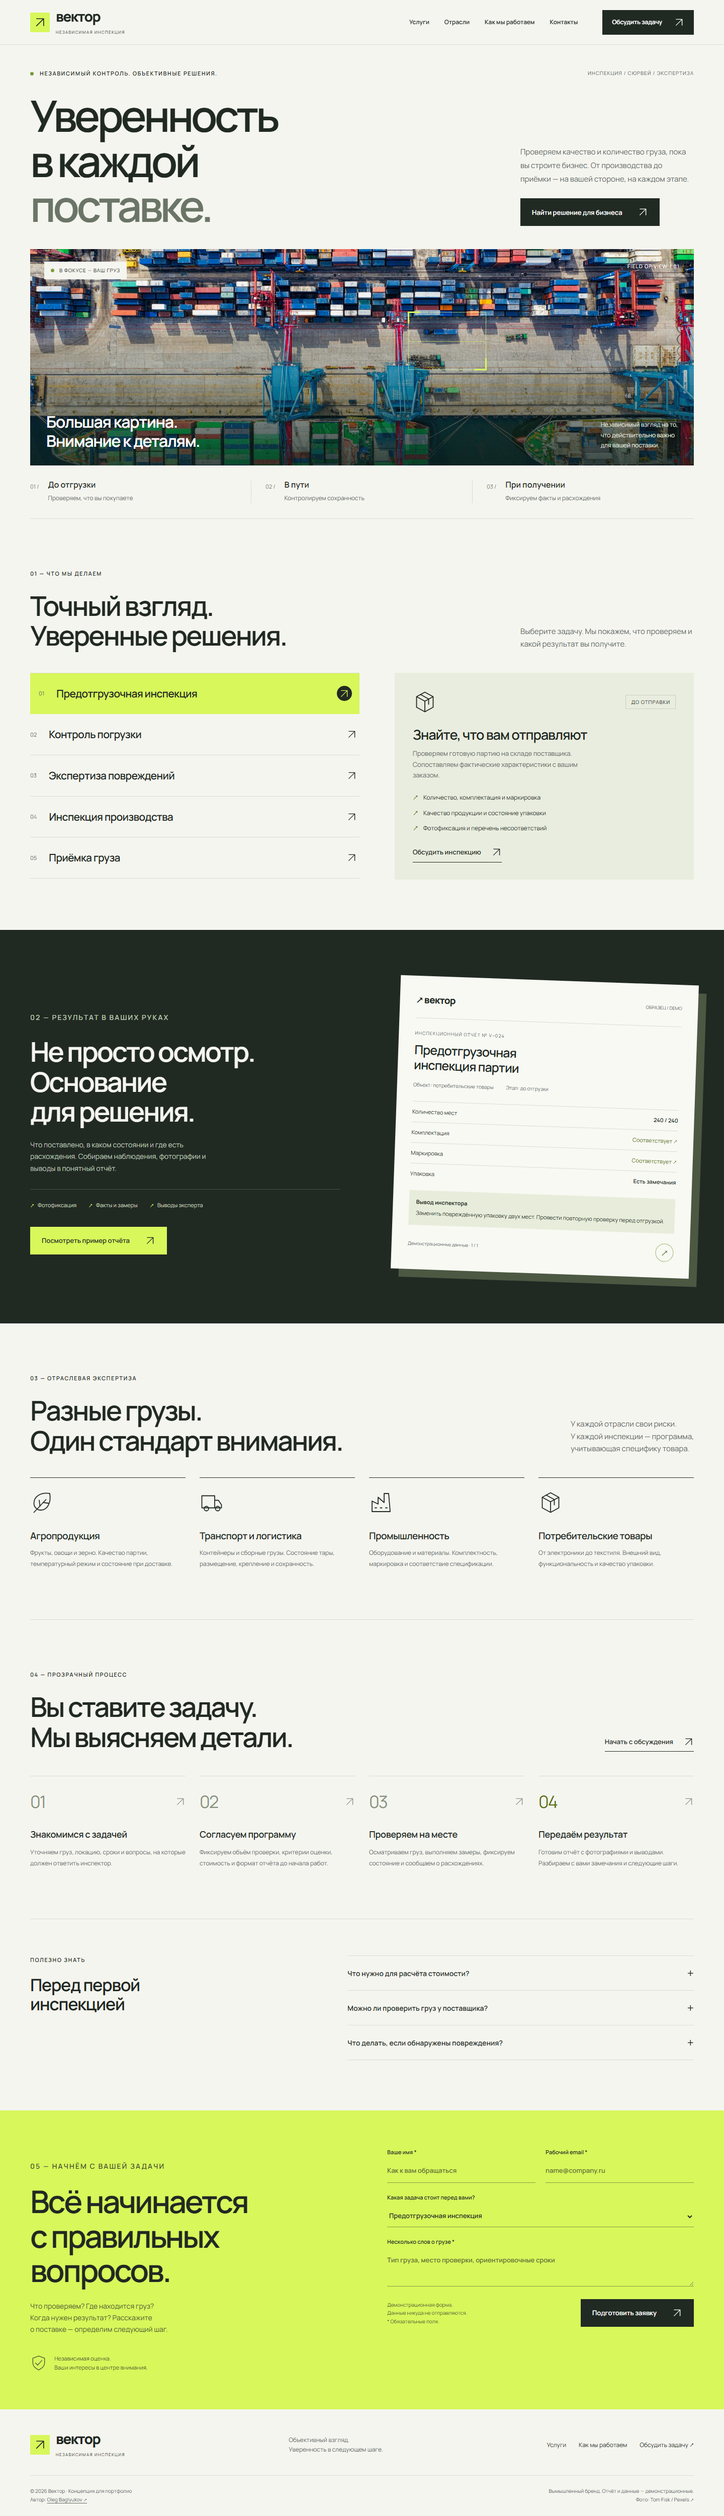
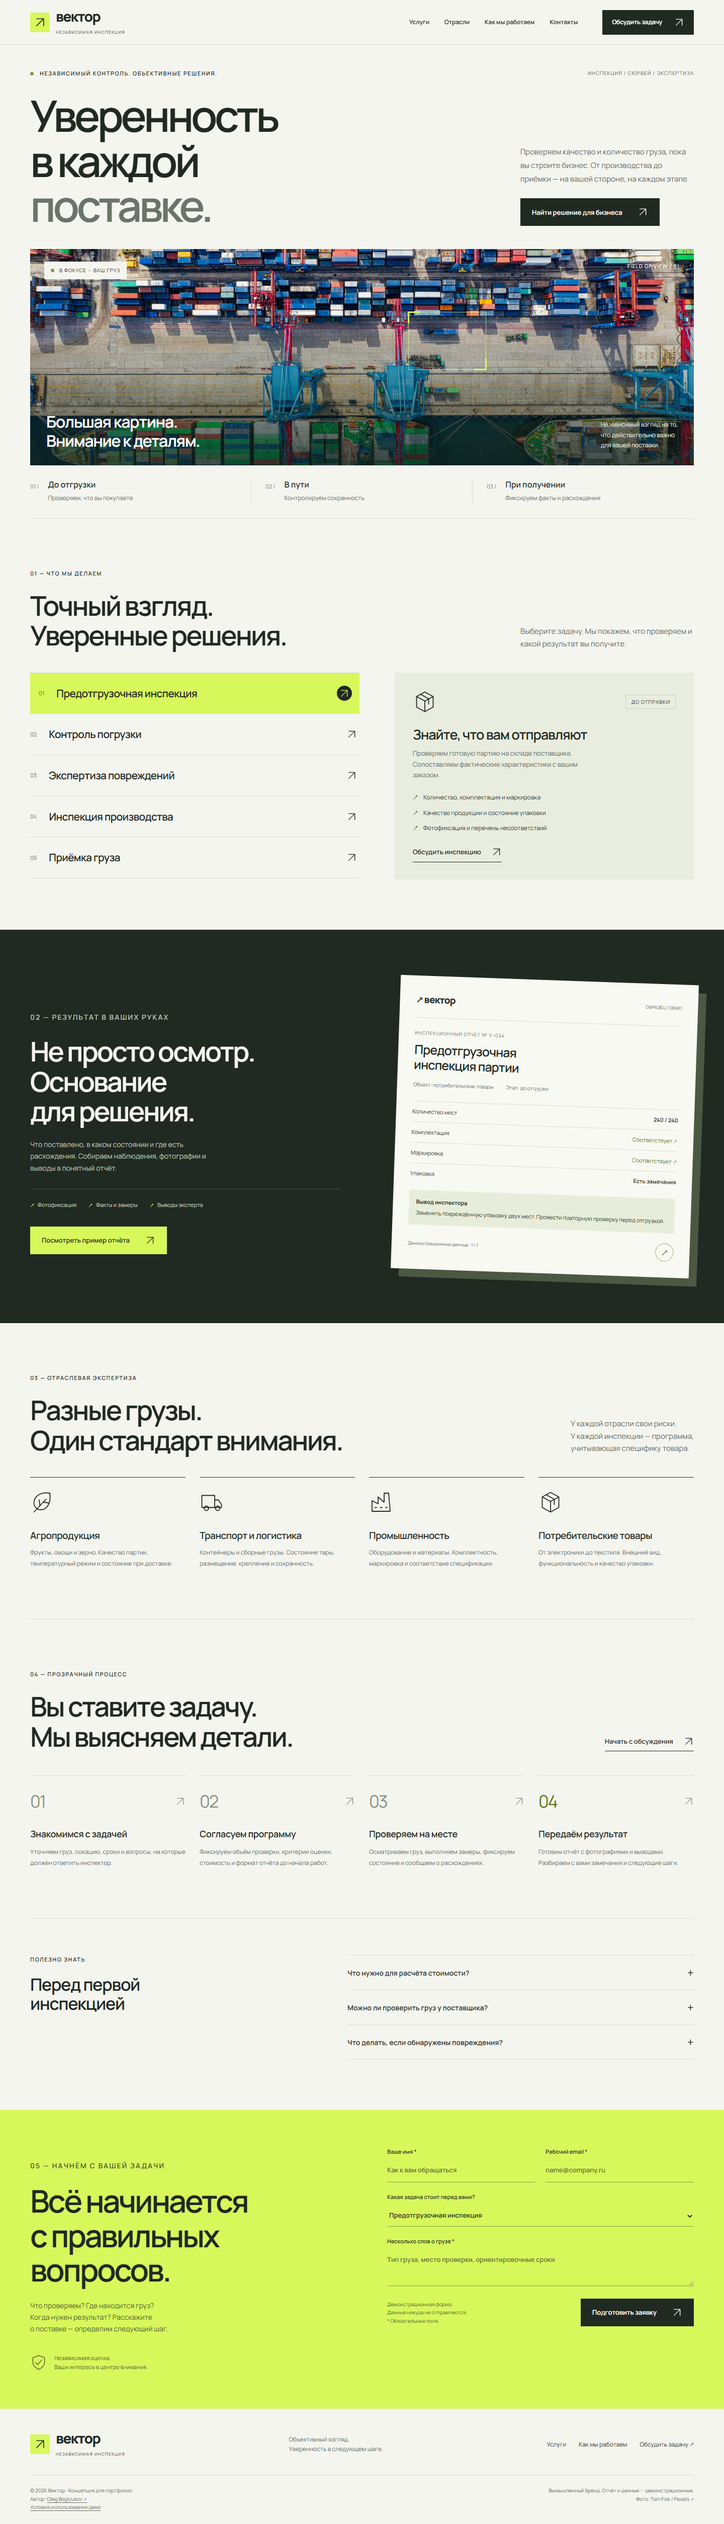
Add portfolio demo usage terms and attribution notices

diff --git a/terms.html b/terms.html
@@ -1,0 +1,23 @@
+<!doctype html>
+<html lang="ru">
+<head>
+<meta charset="utf-8">
+<meta name="viewport" content="width=device-width, initial-scale=1">
+<title>Условия использования — Вектор</title>
+<meta name="description" content="Условия просмотра и использования демонстрационного проекта Вектор автора Oleg Baglyukov.">
+<style>
+@font-face{font-family:Demo;src:url(assets/manrope-variable.ttf) format("truetype");font-weight:100 900;font-display:swap}*{box-sizing:border-box}body{margin:0;background:#f5f5ed;color:#20291c;font-family:Demo,system-ui,sans-serif;line-height:1.8}main{max-width:840px;margin:auto;padding:48px 24px 64px}a{color:#42582e;text-underline-offset:4px;overflow-wrap:anywhere}a:focus-visible{outline:2px solid currentColor;outline-offset:5px}header{margin:36px 0}h1{font-size:clamp(30px,5vw,48px);line-height:1.2;letter-spacing:-.035em;margin:0 0 20px}h2{font-size:21px;line-height:1.4;margin:0 0 12px}p{margin:0;overflow-wrap:anywhere}section{margin:30px 0}header p,footer{color:#56604e;font-size:14px}footer{margin-top:40px;padding-top:24px;border-top:1px solid currentColor}@media(max-width:480px){main{padding:28px 20px 40px}h2{font-size:19px}}
+</style>
+</head>
+<body><main>
+<a href="./">← Вернуться к демо «Вектор»</a>
+<header><h1>Условия использования</h1><p>Демонстрационный проект «Вектор» · Редакция от 13 ноября 2026 года</p></header>
+<section><h2>Назначение демо</h2><p>Проект «Вектор» опубликован Oleg Baglyukov для демонстрации дизайна и интерфейса в портфолио. Он предоставляется для просмотра и оценки. Публикация файлов в открытом доступе сама по себе не предоставляет лицензию на использование проекта в других продуктах.</p></section>
+<section><h2>Что разрешено</h2><p>Разрешены просмотр сайта, проверка его интерфейса, изучение кода и отправка ссылки на демо. Файлы, создаваемые кнопками демонстрационного интерфейса, можно скачивать для локальной проверки. Просмотр и форки публичного репозитория на GitHub допускаются в объёме, предусмотренном условиями GitHub; это не означает разрешения на самостоятельную публикацию, продажу или использование проекта в клиентской работе.</p></section>
+<section><h2>Использование в других проектах</h2><p>Если иное не разрешено применимым законом, условиями GitHub или лицензией конкретного стороннего материала, без предварительного письменного разрешения Oleg Baglyukov не разрешаются: копирование и переработка охраняемых материалов для другого сайта или продукта; публикация копий и переработок, включая размещение на другом домене; продажа, распространение в составе шаблонов и передача для использования в клиентских проектах. Нельзя выдавать чужие материалы за собственную работу. Указание автора само по себе не заменяет разрешения.</p></section>
+<section><h2>Объём прав и сторонние материалы</h2><p>© 2026 Oleg Baglyukov. Все права на охраняемые авторские материалы сохранены в пределах, установленных применимым законодательством. Настоящие условия не устанавливают исключительных прав на общие идеи, методы, стандартные приёмы интерфейса и элементы, не охраняемые авторским правом. Они не ограничивают использование, разрешённое законом. Сторонние материалы принадлежат соответствующим правообладателям и используются по их собственным лицензиям. Фотография порта: Tom Fisk / Pexels. На неё распространяется лицензия Pexels (<a href="https://www.pexels.com/license/">pexels.com/license/</a>), а не ограничения на авторские материалы этого проекта. Шрифт Manrope распространяется по SIL Open Font License 1.1; текст лицензии находится в <a href="assets/OFL-Manrope.txt">assets/OFL-Manrope.txt</a>. Условия этого проекта не изменяют и не сужают права по этим сторонним лицензиям.</p></section>
+<section><h2>Отдельное разрешение</h2><p>Для использования проекта или его охраняемых частей в коммерческой или иной работе необходимо отдельное письменное соглашение, определяющее объём разрешённого использования, за исключением случаев, указанных выше. Просмотр демо, переговоры, получение ссылки и наличие копии файлов не означают передачу исключительных прав. Контакт автора: <a href="https://github.com/zerg41">github.com/zerg41</a>.</p></section>
+<section><h2>Демонстрационный характер</h2><p>Бренды и данные в интерфейсе используются для демонстрации. Демо не является действующим сервисом и не предназначено для реальных заявок, платежей или производственной эксплуатации. Формы не отправляют введённые данные.</p></section>
+<footer>© 2026 Oleg Baglyukov · <a href="LICENSE.md">Текст условий для репозитория</a></footer>
+</main></body>
+</html>

diff --git a/index.html b/index.html
@@ -239,7 +239,7 @@
 </main>
 <footer class="footer wrap">
   <div class="footer-top"><a class="brand" href="#main"><span class="brand-mark"><svg class="arrow" aria-hidden="true"><use href="#arrow"/></svg></span><span><span class="brand-name">вектор</span><span class="brand-sub" style="display:block">независимая инспекция</span></span></a><p>Объективный взгляд.<br>Уверенность в следующем шаге.</p><div class="footer-links"><a href="#services">Услуги</a><a href="#process">Как мы работаем</a><a href="#contact">Обсудить задачу ↗</a></div></div>
-  <div class="footer-bottom"><p>© 2026 Вектор · Концепция для портфолио<br>Автор: <a class="author-link" href="https://github.com/zerg41" target="_blank" rel="noopener noreferrer">Oleg Baglyukov ↗</a></p><p>Вымышленный бренд. Отчёт и данные — демонстрационные.<br>Фото: <a href="https://www.pexels.com/photo/aerial-photography-of-container-van-lot-2226458/" target="_blank" rel="noopener noreferrer">Tom Fisk / Pexels ↗</a></p></div>
+  <div class="footer-bottom"><p>© 2026 Вектор · Концепция для портфолио<br>Автор: <a class="author-link" href="https://github.com/zerg41" target="_blank" rel="noopener noreferrer">Oleg Baglyukov ↗</a><br><a class="author-link" href="terms.html">Условия использования демо</a></p><p>Вымышленный бренд. Отчёт и данные — демонстрационные.<br>Фото: <a href="https://www.pexels.com/photo/aerial-photography-of-container-van-lot-2226458/" target="_blank" rel="noopener noreferrer">Tom Fisk / Pexels ↗</a></p></div>
 </footer>
 <dialog id="report-dialog" aria-labelledby="dialog-title">
   <div class="dialog-top"><span class="eyebrow">Вектор / Образец отчёта</span><button class="close-dialog" type="button" id="close-report" aria-label="Закрыть отчёт">×</button></div>

diff --git a/LICENSE.md b/LICENSE.md
@@ -1,0 +1,29 @@
+# Условия использования — Вектор
+
+Copyright © 2026 Oleg Baglyukov. All rights reserved, subject to the exceptions below.
+
+Редакция от 13 ноября 2026 года.
+
+## Назначение демо
+
+Проект «Вектор» опубликован Oleg Baglyukov для демонстрации дизайна и интерфейса в портфолио. Он предоставляется для просмотра и оценки. Публикация файлов в открытом доступе сама по себе не предоставляет лицензию на использование проекта в других продуктах.
+
+## Что разрешено
+
+Разрешены просмотр сайта, проверка его интерфейса, изучение кода и отправка ссылки на демо. Файлы, создаваемые кнопками демонстрационного интерфейса, можно скачивать для локальной проверки. Просмотр и форки публичного репозитория на GitHub допускаются в объёме, предусмотренном условиями GitHub; это не означает разрешения на самостоятельную публикацию, продажу или использование проекта в клиентской работе.
+
+## Использование в других проектах
+
+Если иное не разрешено применимым законом, условиями GitHub или лицензией конкретного стороннего материала, без предварительного письменного разрешения Oleg Baglyukov не разрешаются: копирование и переработка охраняемых материалов для другого сайта или продукта; публикация копий и переработок, включая размещение на другом домене; продажа, распространение в составе шаблонов и передача для использования в клиентских проектах. Нельзя выдавать чужие материалы за собственную работу. Указание автора само по себе не заменяет разрешения.
+
+## Объём прав и сторонние материалы
+
+© 2026 Oleg Baglyukov. Все права на охраняемые авторские материалы сохранены в пределах, установленных применимым законодательством. Настоящие условия не устанавливают исключительных прав на общие идеи, методы, стандартные приёмы интерфейса и элементы, не охраняемые авторским правом. Они не ограничивают использование, разрешённое законом. Сторонние материалы принадлежат соответствующим правообладателям и используются по их собственным лицензиям. Фотография порта: Tom Fisk / Pexels. На неё распространяется лицензия Pexels (https://www.pexels.com/license/), а не ограничения на авторские материалы этого проекта. Шрифт Manrope распространяется по SIL Open Font License 1.1; текст лицензии находится в assets/OFL-Manrope.txt. Условия этого проекта не изменяют и не сужают права по этим сторонним лицензиям.
+
+## Отдельное разрешение
+
+Для использования проекта или его охраняемых частей в коммерческой или иной работе необходимо отдельное письменное соглашение, определяющее объём разрешённого использования, за исключением случаев, указанных выше. Просмотр демо, переговоры, получение ссылки и наличие копии файлов не означают передачу исключительных прав. Контакт автора: https://github.com/zerg41.
+
+## Демонстрационный характер
+
+Бренды и данные в интерфейсе используются для демонстрации. Демо не является действующим сервисом и не предназначено для реальных заявок, платежей или производственной эксплуатации. Формы не отправляют введённые данные.

diff --git a/README.md b/README.md
@@ -1,7 +1,13 @@
 # Вектор — концепция сайта инспекционной компании
 
+## Условия использования
+
+Демо опубликовано для просмотра и оценки. Использование охраняемых материалов в других проектах требует предварительного письменного разрешения Oleg Baglyukov, кроме случаев, разрешённых законом, условиями GitHub или лицензиями сторонних материалов. Указание автора не заменяет разрешения.
+
+Полные условия: [LICENSE.md](LICENSE.md) · [Страница для посетителей](terms.html). Сторонние шрифты и изображения сохраняют собственные лицензии.
+
 Откройте index.html в современном браузере. Сборка и сервер не нужны.
-Для передачи примера скопируйте index.html вместе с папкой assets/.
+При разрешённом размещении сохраняйте index.html, terms.html, LICENSE.md и assets/ вместе.
 Изображение, шрифт, стили и скрипты работают без доступа к интернету.
 
 Это демонстрационный проект для портфолио: вымышленный бренд, услуги и образец отчёта.
